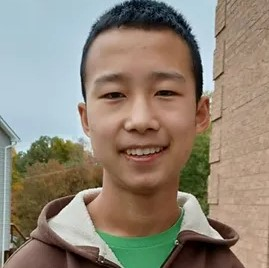
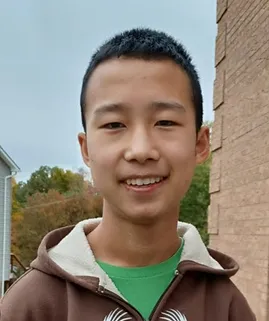
accounts made

diff --git a/index.html b/index.html
@@ -285,8 +285,14 @@
                                     <div class="col-lg-7 col-md-6 wow fadeInUp" data-wow-delay="0.1s">
                                         <div class="text-center p-4">
                                             <h3 class="mb-0">Dr. Arvind Venkat</h3>
-                                            
-                                            <p>Rep. Arvind Venkat, an emergency physician, was elected to serve his first term in the
+                                            <!-- <p id="shorter" class="expanded">Rep. Arvind Venkat, an emergency physician, was elected to serve his first term in the
+                                                state House of Representatives in November 2022. He is the first Indian American to be
+                                                elected to the state House and the first physician to serve in the General Assembly in
+                                                nearly 60 years.
+                                                He serves as State Representative for the 30th Legislative District, which includes part
+                                                of Hampton Township, and all of McCandless, Franklin Park, Ohio Township,
+                                                Emsworth, Ben Avon, Ben Avon Heights, and Kilbuck.</p> -->
+                                            <p id="longer" class="expanded">Rep. Arvind Venkat, an emergency physician, was elected to serve his first term in the
                                                 state House of Representatives in November 2022. He is the first Indian American to be
                                                 elected to the state House and the first physician to serve in the General Assembly in
                                                 nearly 60 years.
@@ -305,7 +311,7 @@
                                                 president of the state emergency physicians organization.
                                                 Rep. Venkat currently lives in McCandless with his wife and three children. </p>
                                             <div class="d-flex justify-content-center mb-2">
-                                                <!-- <a href="#" class="btn btn-sm btn-primary px-3 rounded-pill " style="border-radius: 30px 0 0 30px;">Read More</a> -->
+                                                <!-- <a onClick = "expandContract()" class="btn btn-sm btn-primary px-3 rounded-pill " style="border-radius: 30px 0 0 30px;">Read More</a> -->
                                             </div>
                                     </div>
                                 </div>
@@ -381,7 +387,7 @@
                             <h3 class="mb-0">Kaartic Muralidharan</h3>
                           
                             <p>Kaartic Muralidharan has a wide range of interests. He has been interested in science since a young age. 
-                                He authored a book called <a href ="https://www.amazon.com/Power-Energy-Kaartic-Muralidharan/dp/B0BW3BDJGM">Power of Energy</a> 
+                                He authored a book called <i><a href ="https://www.amazon.com/Power-Energy-Kaartic-Muralidharan/dp/B0BW3BDJGM">Power of Energy</a></i>
                                 on the different types of renewable energy. He enjoys spending time outside and loves to bike. 
                                 His biking adventures allowed him to get familiar with the geography, another one of his interests, of his neighborhood. 
                                 He also enjoys making things on his own, ranging from various real world contraptions to websites. 
@@ -570,7 +576,7 @@
                 <div class="col-lg-3 col-md-6 wow fadeInUp" data-wow-delay="0.7s">
                     <div class="team-item">
                         <div class="overflow-hidden imgwrapper">
-                            <img class="img-fluid" src="images/avni.jpg" style="max-height: 400px; max-width: 300px;" alt="">
+                            <img class="img-fluid" src="images/avni.jpg" style="max-height: 300px; max-width: 300px;" alt="">
                         </div>
                         <div class="position-relative d-flex justify-content-center" style="margin-top: -19px;">
                             <!-- <a class="btn btn-square mx-1" href=""><i class="fab fa-facebook-f"></i></a>
@@ -604,7 +610,7 @@
                 <div class="col-lg-3 col-md-6 wow fadeInUp" data-wow-delay="0.5s">
                     <div class="team-item">
                         <div class="overflow-hidden imgwrapper">
-                            <img class="img-fluid" src="images/max.png" style="max-height: 400px; max-width: 300px;" alt="">
+                            <img class="img-fluid" src="images/max.png" style="max-height: 300px; max-width: 300px;" alt="">
                         </div>
                         <div class="position-relative d-flex justify-content-center" style="margin-top: -19px;">
                             <!-- <a class="btn btn-square mx-1" href=""><i class="fab fa-facebook-f"></i></a>
@@ -621,7 +627,7 @@
                 <div class="col-lg-3 col-md-6 wow fadeInUp" data-wow-delay="0.5s">
                     <div class="team-item">
                         <div class="overflow-hidden imgwrapper">
-                            <img class="img-fluid" src="images/marco.jpg" style="max-height: 400px; max-width: 300px;" alt="">
+                            <img class="img-fluid" src="images/marco.jpg" style="max-height: 300px; max-width: 300px;" alt="">
                         </div>
                         <div class="position-relative d-flex justify-content-center" style="margin-top: -19px;">
                             <!-- <a class="btn btn-square mx-1" href=""><i class="fab fa-facebook-f"></i></a>
@@ -655,7 +661,7 @@
                 <div class="col-lg-3 col-md-6 wow fadeInUp" data-wow-delay="0.7s">
                     <div class="team-item">
                         <div class="overflow-hidden imgwrapper">
-                            <img class="img-fluid" src="images/jason.jpg" style="max-height: 400px; max-width: 300px;" alt="">
+                            <img class="img-fluid" src="images/jason.jpg" style="max-height: 300px; max-width: 300px;" alt="">
                         </div>
                         <div class="position-relative d-flex justify-content-center" style="margin-top: -19px;">
                             <!-- <a class="btn btn-square mx-1" href=""><i class="fab fa-facebook-f"></i></a>
@@ -672,7 +678,7 @@
                 <div class="col-lg-3 col-md-6 wow fadeInUp" data-wow-delay="0.7s">
                     <div class="team-item">
                         <div class="overflow-hidden imgwrapper">
-                            <img class="img-fluid" src="images/person.png" style="max-height: 400px; max-width: 300px;" alt="">
+                            <img class="img-fluid" src="images/person.png" style="max-height: 300px; max-width: 300px;" alt="">
                         </div>
                         <div class="position-relative d-flex justify-content-center" style="margin-top: -19px;">
                             <!-- <a class="btn btn-square mx-1" href=""><i class="fab fa-facebook-f"></i></a>
@@ -749,13 +755,14 @@
                 <div class="col-lg-3 col-md-6">
                     <h4 class="text-white mb-3">Contact</h4>
                     <p class="mb-2"><i class="fa fa-map-marker-alt me-3"></i>Pittsburgh, PA</p>
-                    <p class="mb-2"><i class="fa fa-phone-alt me-3"></i>Coming Soon</p>
-                    <p class="mb-2"><i class="fa fa-envelope me-3"></i>haresh@chesspire.org</p>
+                    <a href="tel:+17242432739" style="color:white;"><p class="mb-2"><i class="fa fa-phone-alt me-3"></i>724-243-2739</p></a>
+                    <a href="mailto:haresh@chesspire.org" style="color:white;"><p class="mb-2"><i class="fa fa-envelope me-3"></i>haresh@chesspire.org</p></a>
                     <div class="d-flex pt-2">
-                        <a class="btn btn-outline-light btn-social" href=""><i class="fab fa-twitter"></i></a>
-                        <a class="btn btn-outline-light btn-social" href=""><i class="fab fa-facebook-f"></i></a>
-                        <a class="btn btn-outline-light btn-social" href=""><i class="fab fa-youtube"></i></a>
-                        <a class="btn btn-outline-light btn-social" href=""><i class="fab fa-linkedin-in"></i></a>
+                        <a class="btn btn-outline-light btn-social" href="https://twitter.com/chesspireteam"><i class="fab fa-twitter"></i></a>
+                        <a class="btn btn-outline-light btn-social" href="https://www.instagram.com/chesspire.team/"><i class="fab fa-instagram"></i></a>
+                        <a class="btn btn-outline-light btn-social" href="mailto:haresh@chesspire.org"><i class="fa fa-envelope"></i></a>
+                        <!-- <a class="btn btn-outline-light btn-social" href=""><i class="fab fa-youtube"></i></a>
+                        <a class="btn btn-outline-light btn-social" href=""><i class="fab fa-linkedin-in"></i></a> -->
                     </div>
                 </div>
                 

diff --git a/js/main.js b/js/main.js
@@ -13,6 +13,15 @@
     const $dropdownToggle = $(".dropdown-toggle");
     const $dropdownMenu = $(".dropdown-menu");
     const showClass = "show";
+
+    // function expandContract() {
+    //     const el = document.getElementById("shorter")
+    //     el.classList.toggle('expanded')
+    //     el.classList.toggle('collapsed')
+    //     const el = document.getElementById("longer")
+    //     el.classList.toggle('expanded')
+    //     el.classList.toggle('collapsed')
+    //  }
   
     $(window).on("load resize", function() {
         if (this.matchMedia("(min-width: 1067px)").matches) {

diff --git a/css/style.css b/css/style.css
@@ -91,6 +91,22 @@
     max-height: 45px;
 }
 
+#shorter {
+    transition: all 1s;
+}
+
+#longer {
+    transition: all 1s;
+}
+
+.collapsed {
+    display: none;
+}
+
+.expanded {
+    display: inline;
+}
+
 @media (max-width: 1066.98px) {
     .sticky-top.navbar-light {
         position: relative;
